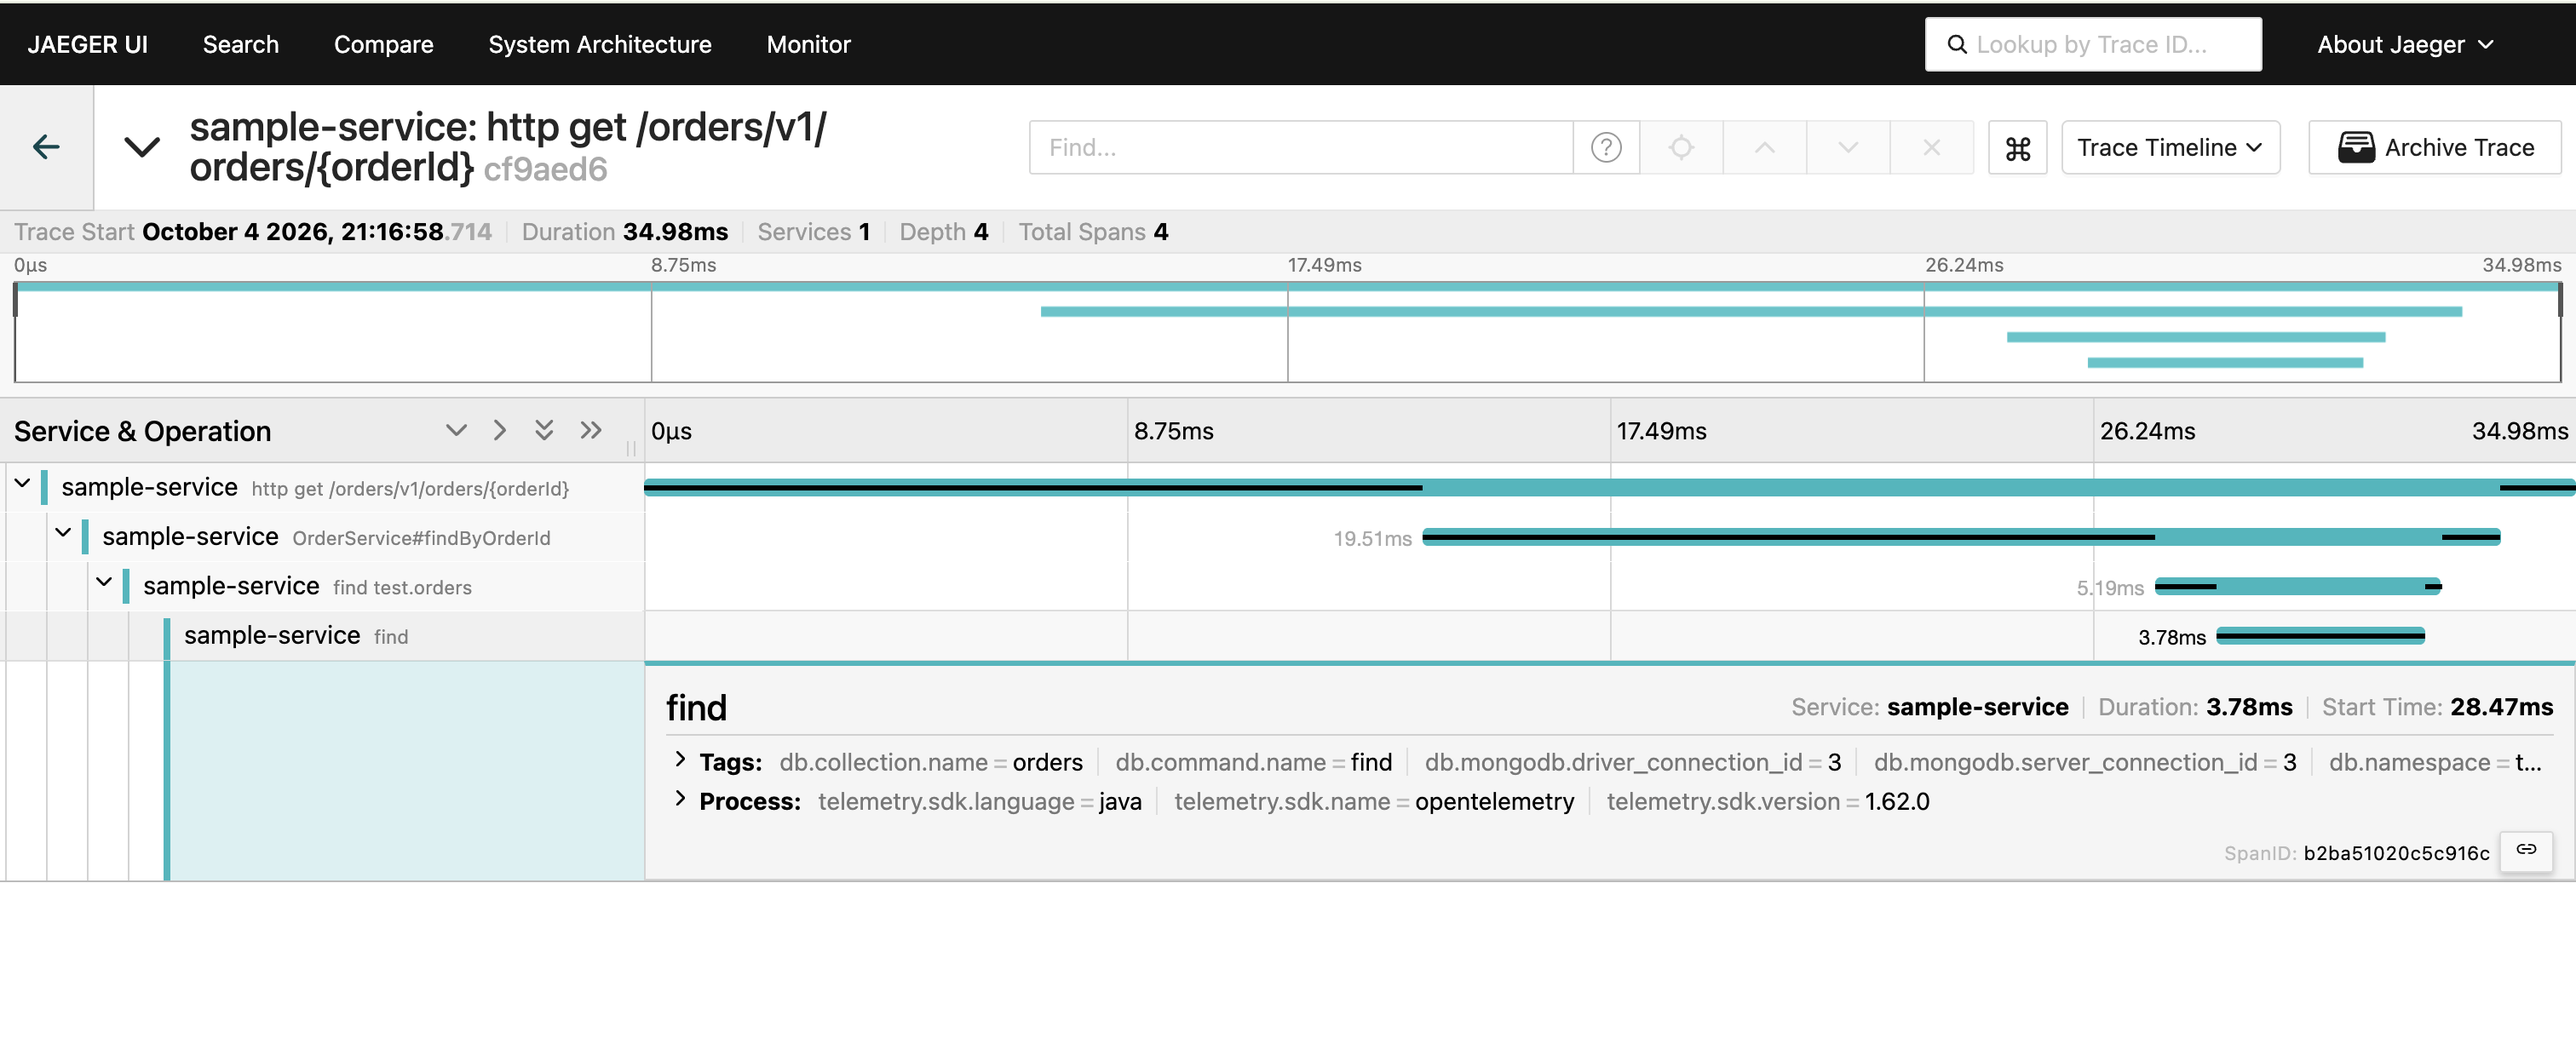
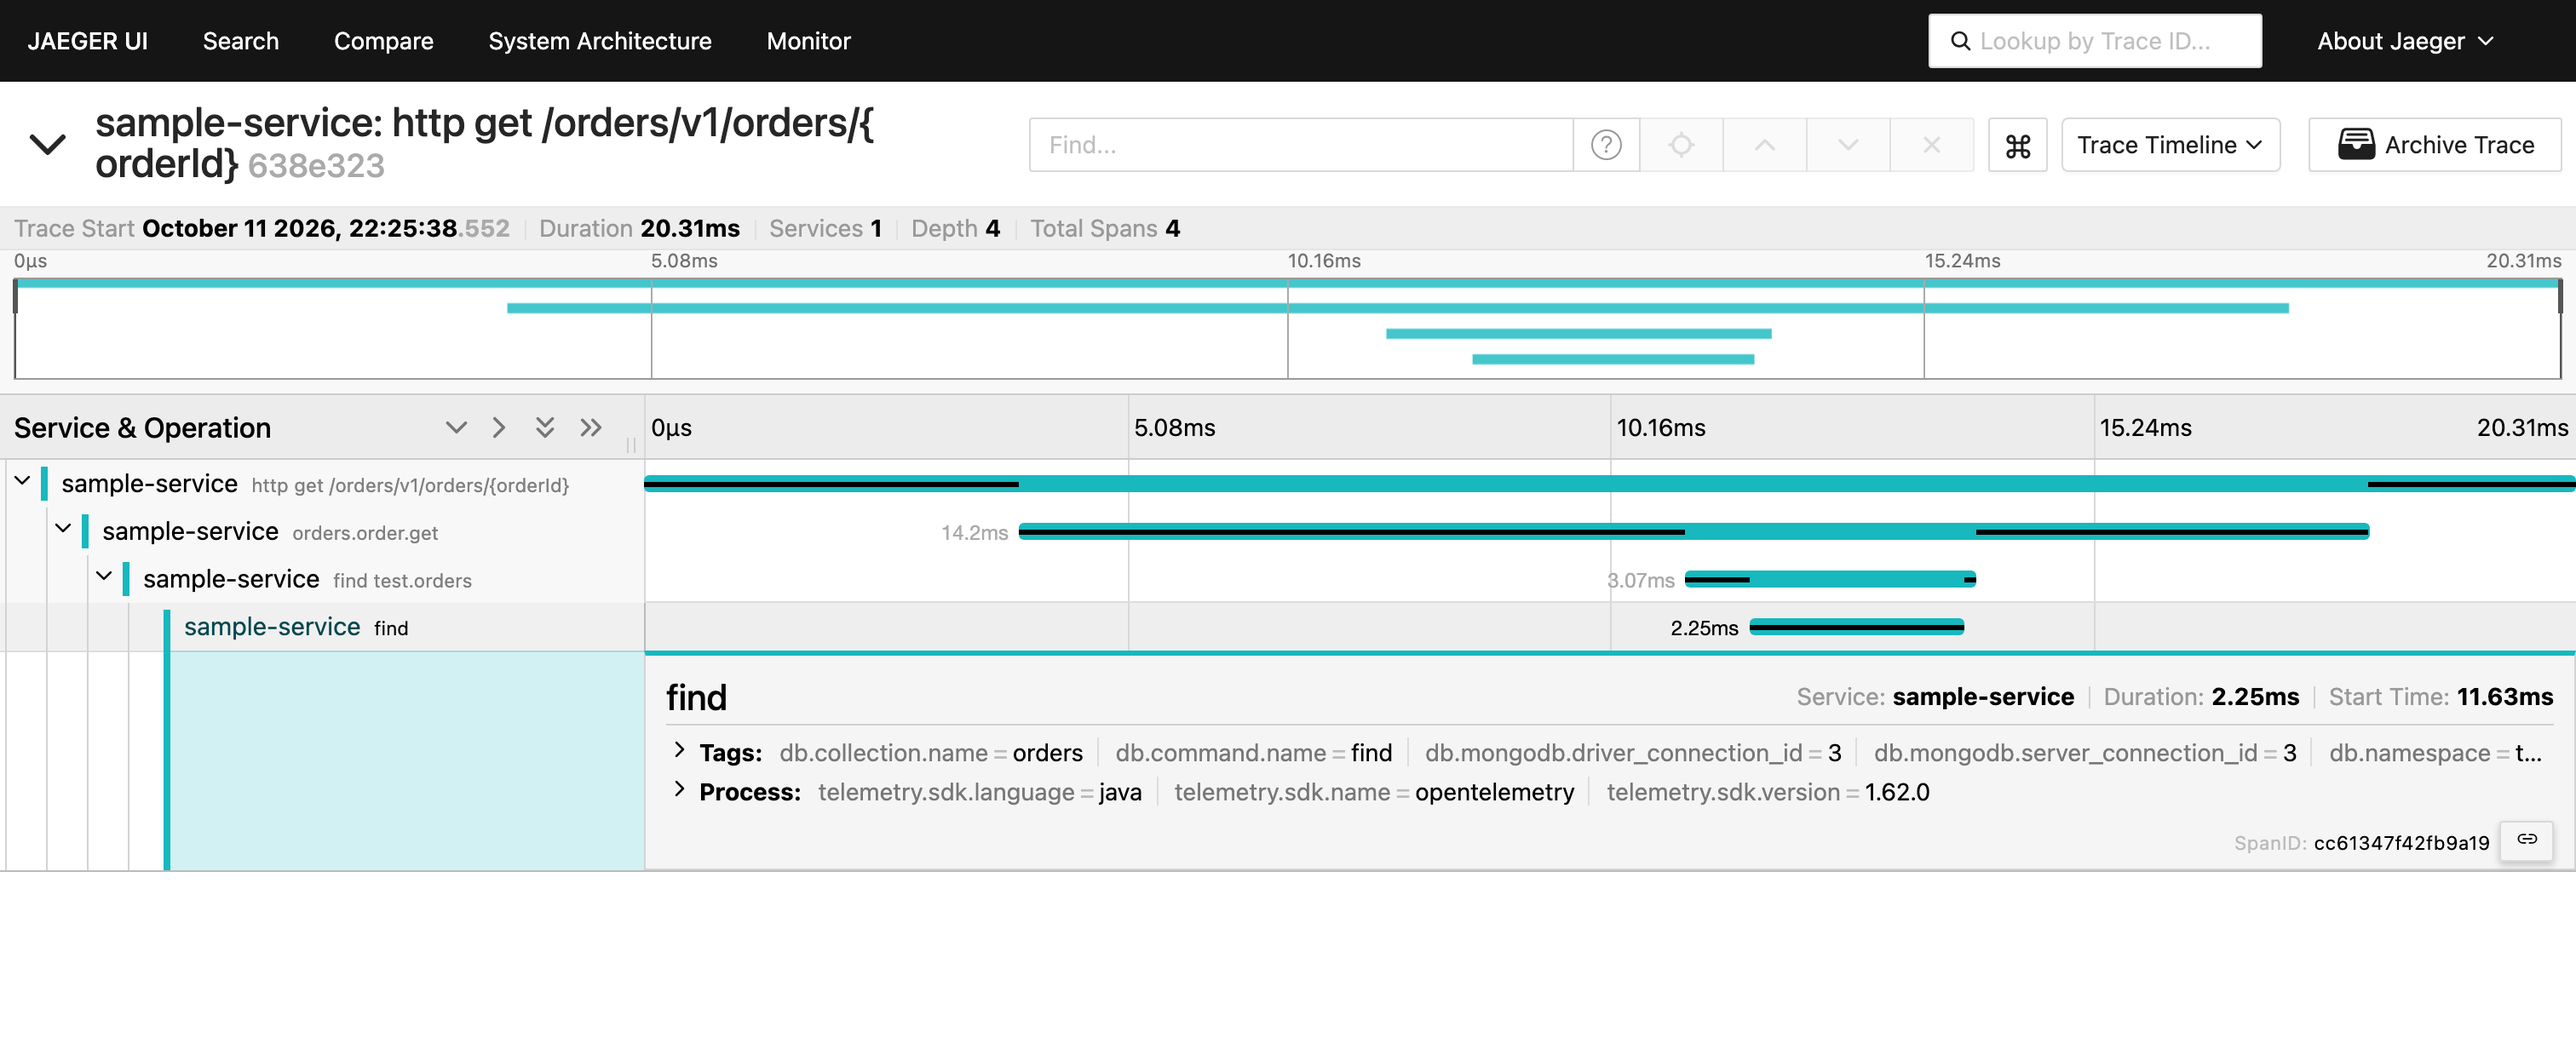
Jaeger screenshot : the service span under its name, orders.order.get

Changed region(s): [[0.0, 0.0, 1.0, 0.7624], [0.0622, 0.7624, 1.0, 0.8539], [0.6217, 0.122, 0.6528, 0.1525]]

diff --git a/service-starter/README.md b/service-starter/README.md
@@ -108,7 +108,7 @@ docker run -d --name jaeger -p 16686:16686 -p 4318:4318 jaegertracing/all-in-one
 
 `curl localhost:8080/orders/v1/orders/2`, then http://localhost:16686 :
 
-![Jaeger showing one trace for GET /orders/v1/orders/{orderId} : the HTTP span, OrderService#findByOrderId, then the MongoDB driver's find test.orders operation and its find command, tagged with collection, command and connection ids](../docs/images/jaeger-trace.png)
+![Jaeger showing one trace for GET /orders/v1/orders/{orderId} : the HTTP span, the orders.order.get span of the service, then the MongoDB driver's find test.orders operation and its find command, tagged with collection, command and connection ids](../docs/images/jaeger-trace.png)
 
 Proven by [`TracingConfigTest`](./src/test/java/com/vspiewak/pavedroad/tracing/TracingConfigTest.java)
 and end-to-end by [`TracingIT`](../sample-service/src/test/java/com/vspiewak/sample/platform/TracingIT.java),
